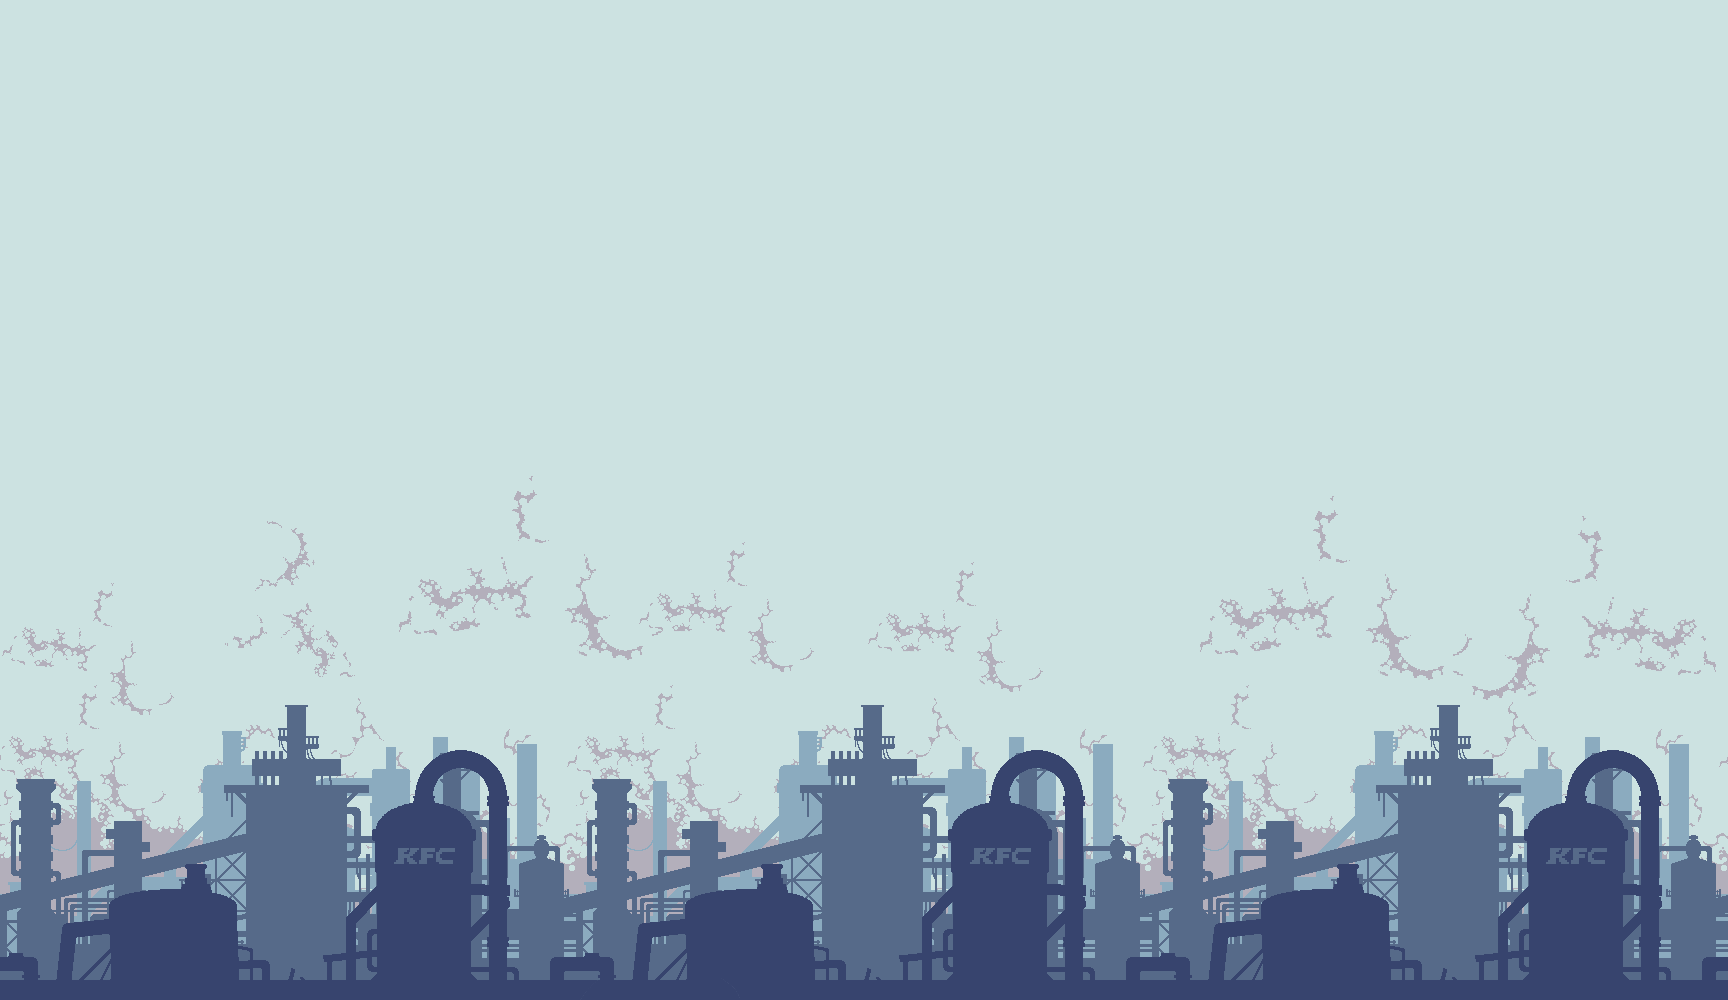
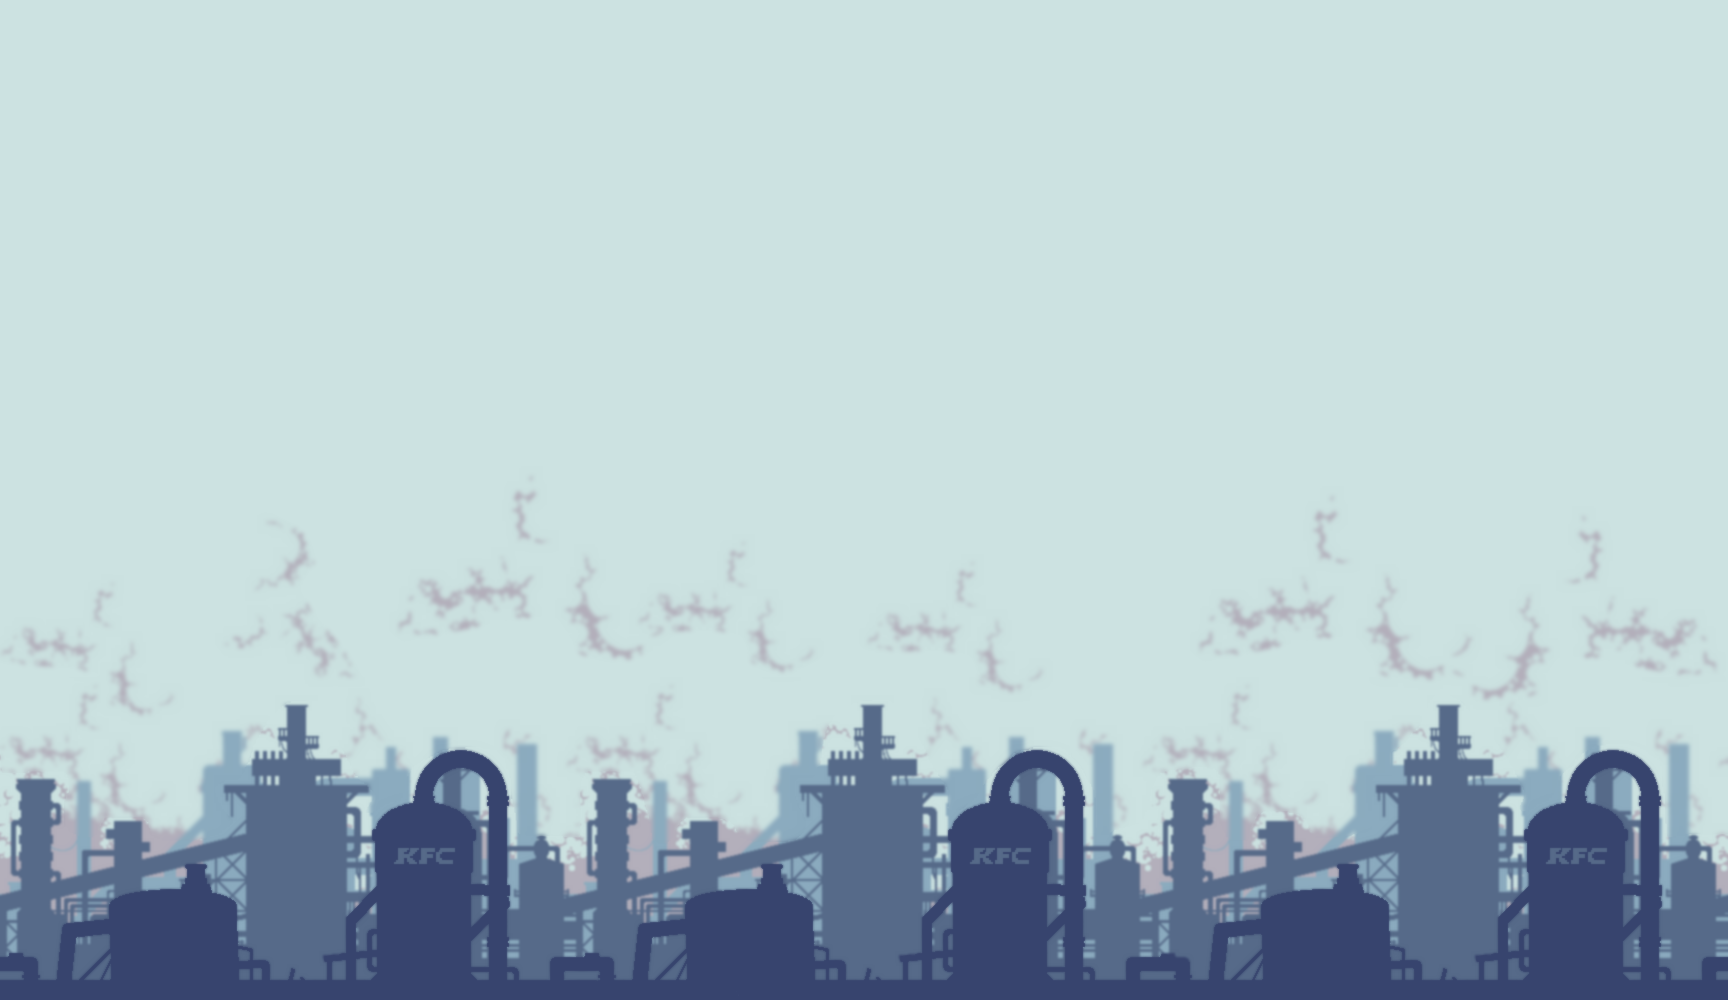
Added blur to the background for more depth

diff --git a/src/main.cpp b/src/main.cpp
@@ -103,7 +103,7 @@ int main()
 		move(b_player, b_obj, get_key_pressed_b());
 
 		collision(s_player, platform_s);
-		render(window,background, s_player, b_player, platform_s);
+		render(window,background, b_player, s_player, platform_s);
 	}
 	system("pause");
 	return EXIT_SUCCESS;
